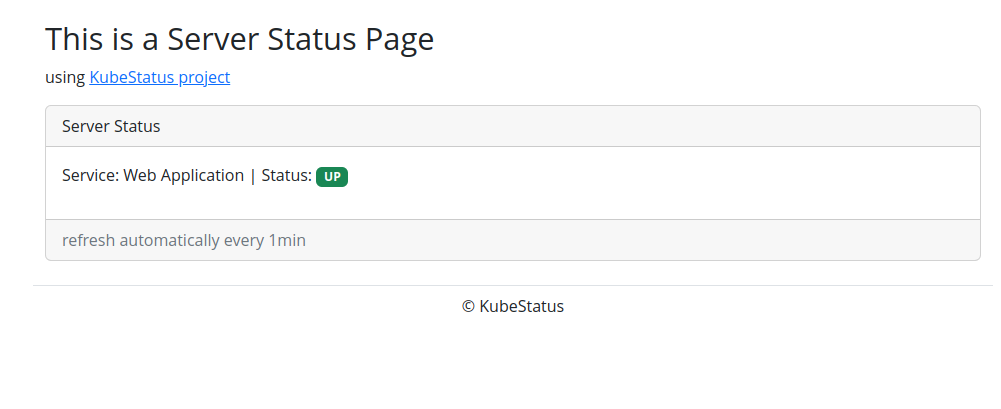
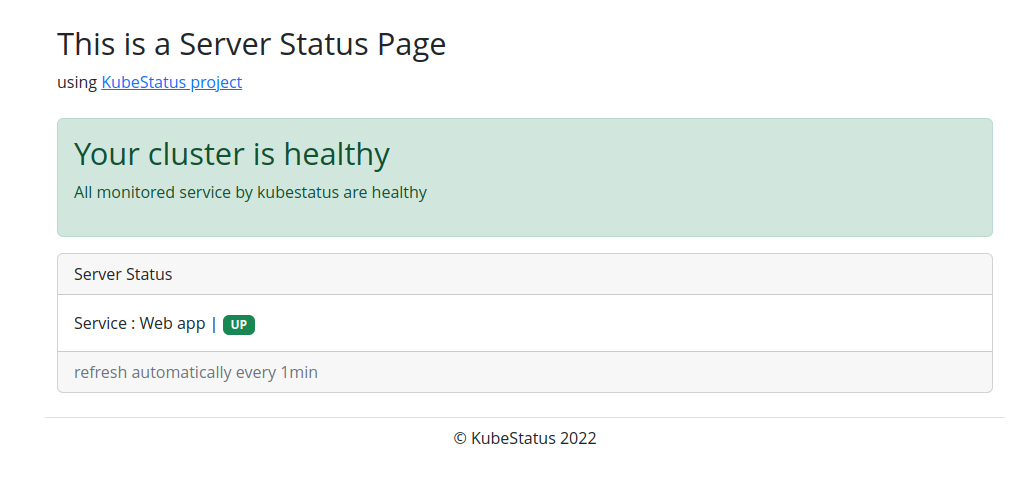
chore(docs): update docs

diff --git a/Readme.md b/Readme.md
@@ -121,7 +121,7 @@ metadata:
   namespace: kubestatus
 data:
   services: |
-    Web Application=web-service.default;
+    Web app=web-service.default;
 ```
 
 apply the value file:
